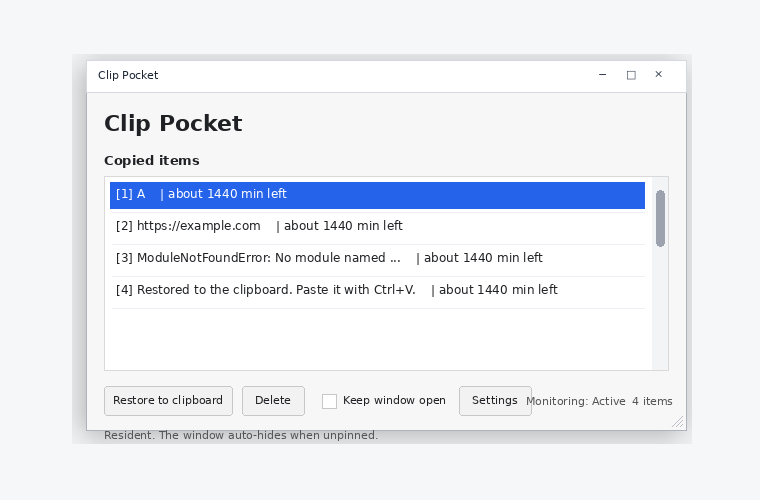
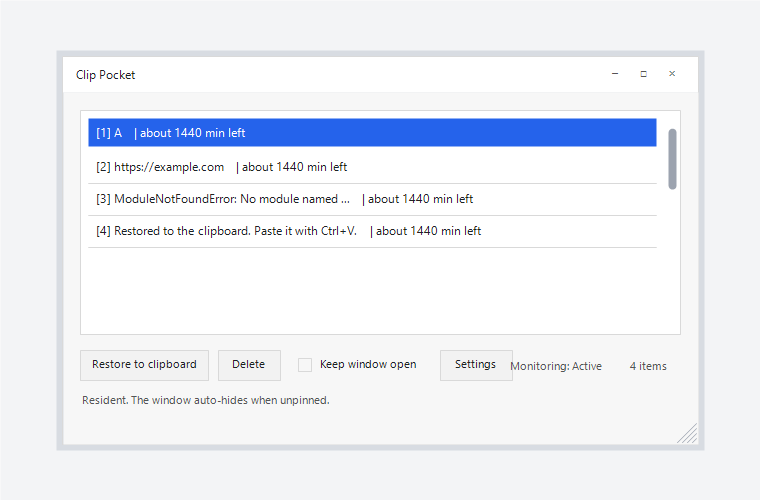
Update README screenshot for current UI

Changed region(s): [[0.0605, 0.09, 0.9382, 0.9], [0.1513, 0.57, 0.5447, 0.6], [0.575, 0.57, 0.7263, 0.6]]

diff --git a/README.md b/README.md
@@ -9,8 +9,6 @@
 
 Clip Pocket is a resident Windows app for keeping copied text temporarily and choosing it again when you want to paste it later.
 
-Current source version: v0.3.0
-
 [日本語 README](docs/README.ja.md)
 
 ---
@@ -21,7 +19,7 @@ Clip Pocket watches text copied to the Windows clipboard and keeps a short in-me
 
 ![Clip Pocket main window](docs/assets/clip-pocket-main.png)
 
-The screenshot shows the default white color setting. Color, opacity, and window size can be changed from `Settings`.
+The screenshot shows the default white color setting. Color, opacity, font size, and window size can be changed from `Settings`.
 
 ## Getting Started
 